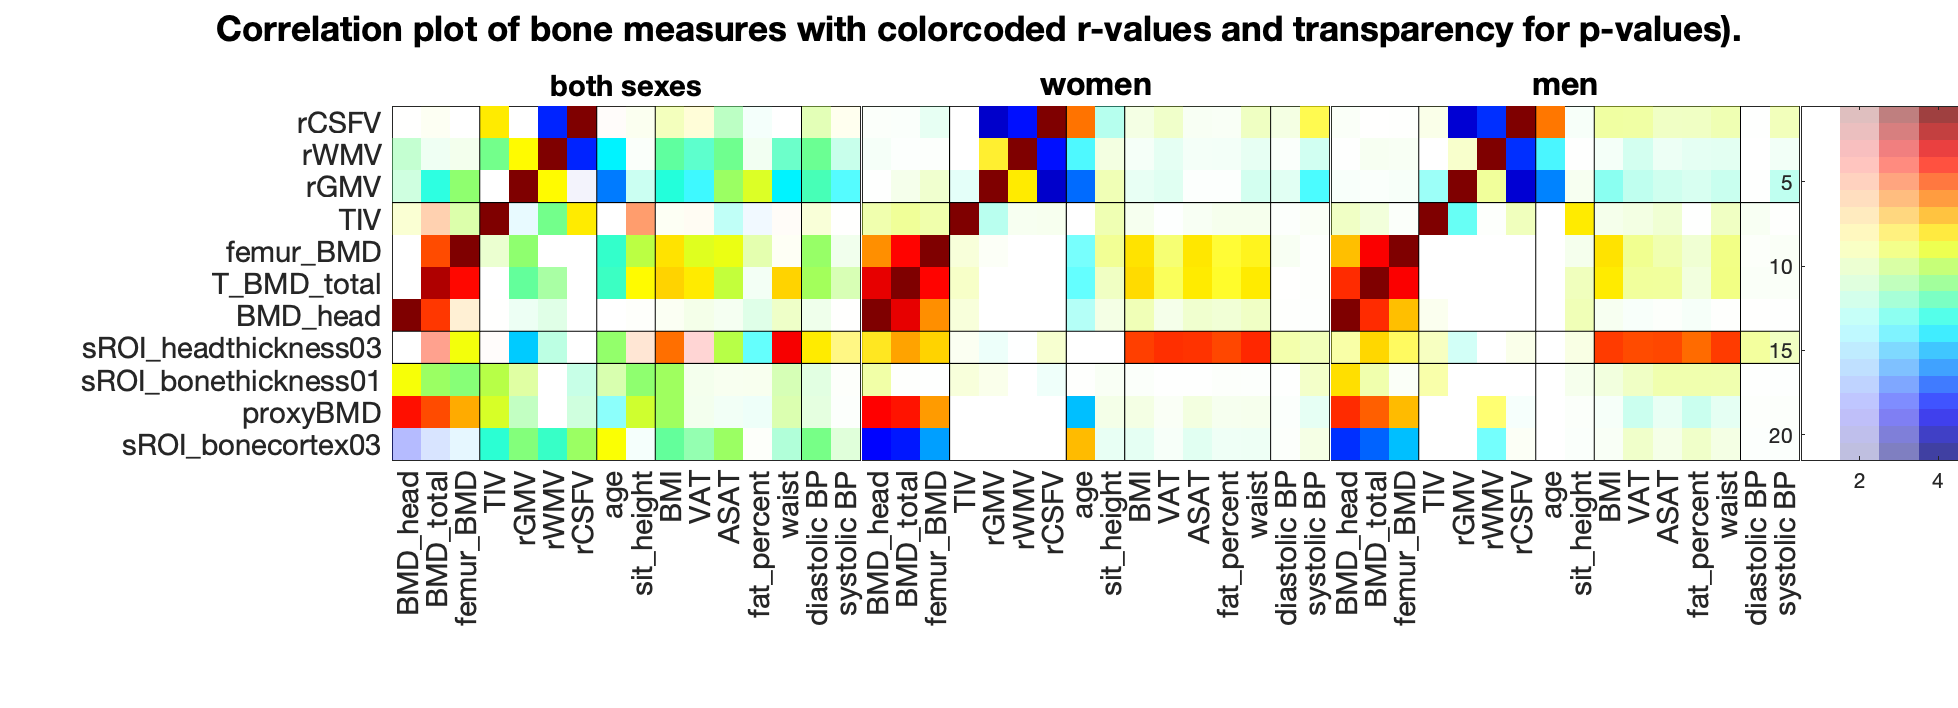
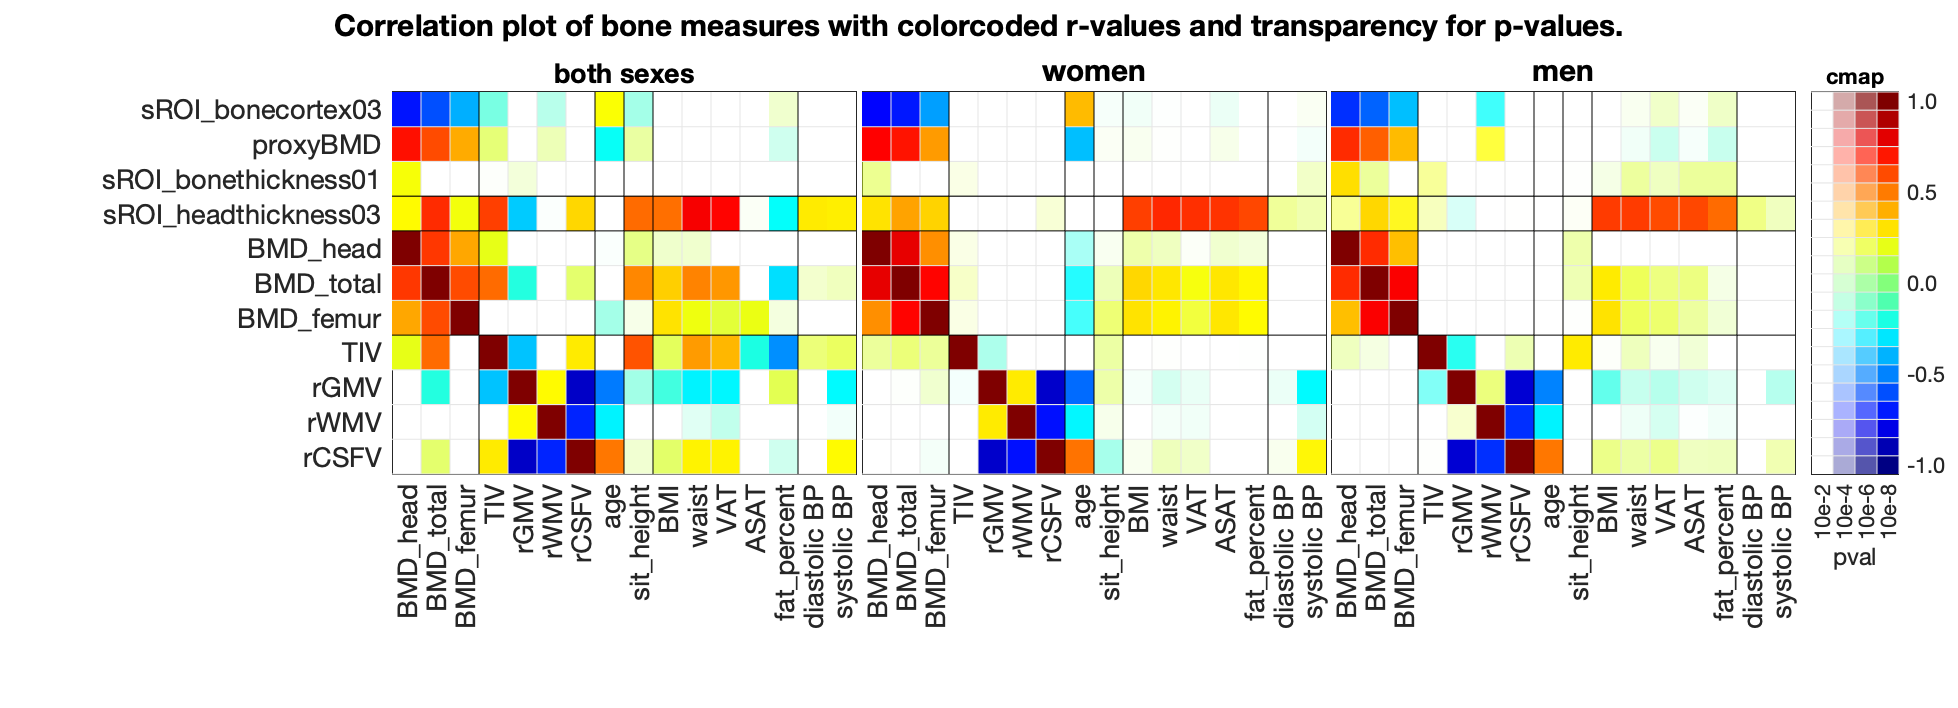
Final Figures

diff --git a/evaluation/HBM_boney_table.m b/evaluation/HBM_boney_table.m
@@ -8,7 +8,7 @@
 % _________________________________________________________________________
 
 
-fontsize     = 14;
+fontsize     = 13;
 boneyEvalDir = fileparts(which('HBM_boney_table.m'));
 
 % load data
@@ -16,23 +16,31 @@ men_corr   = cat_io_csv(fullfile(boneyEvalDir,'HBM_2024','men_corr_Boney.csv'));
 men_pval   = cat_io_csv(fullfile(boneyEvalDir,'HBM_2024','men_pval_Boney.csv'));
 women_corr = cat_io_csv(fullfile(boneyEvalDir,'HBM_2024','women_corr_Boney.csv'));
 women_pval = cat_io_csv(fullfile(boneyEvalDir,'HBM_2024','women_pval_Boney.csv'));
-both_corr  = cat_io_csv(fullfile(boneyEvalDir,'HBM_2024','boney_correlation_proper.csv')); both_corr(2,:) = []; both_corr(:,2) = [];
+both_corr  = cat_io_csv(fullfile(boneyEvalDir,'HBM_2024','boney_correlation_proper.csv')); 
+both_corrv = cell2mat( both_corr(2:end,2:end) ); 
+both_corrv = both_corrv .* triu(ones(size(both_corrv)),1)  +  both_corrv' .* tril(ones(size(both_corrv)));
+both_corr(2:end,2:end) = num2cell( both_corrv ); 
+both_corr(2,:) = []; both_corr(:,2) = [];
 both_pval  = cat_io_csv(fullfile(boneyEvalDir,'HBM_2024','boney_cor_pval.csv'));
-%both_corr  = men_corr; both_corr(2:end,2:end)  = num2cell(mean(cell2mat(cat(3,men_corr(2:end,2:end),women_corr(2:end,2:end))),3));
-%both_pval  = men_pval; both_pval(2:end,2:end)  = num2cell(mean(cell2mat(cat(3,men_pval(2:end,2:end),women_pval(2:end,2:end))),3));
-
+both_pval(2,:) = []; both_pval(:,2) = [];
+both_pvalv = cell2mat( both_pval(2:end,2:end) ); 
+both_pvalv = both_pvalv .* triu(ones(size(both_pvalv)),1)  +  both_pvalv' .* tril(ones(size(both_pvalv)));
+both_pval(2:end,2:end) = num2cell( both_pvalv ); 
+% replace some strings
+both_corr{contains(both_corr(:,1),'femur_BMD'),1} = 'BMD_femur';
+both_corr{1,contains(both_corr(1,:),'femur_BMD')} = 'BMD_femur';
 
 % we want to create multipe talbes with specific focus, i.e. to evaluate 
 % the bone and then fat measures separatly 
 use_vals   = { 
-  [ 9 10 12  ,  2:5 , 1 13         ]  [ 6 7 8   , 9 11 12  ,  2:5 ] 'bone' [3 7 12]  [3 7];   % bone [BMD, brain, age]
-  [ 2:5 , 1 15:21                  ]  [ 14      ,                2:5 ] 'fat'  [3     ]  [3  ];    % fat  [
-  [ 9 10 12  ,  2:5 , 1 13 , 15:21 ]  [ 6 7 8 14, 9 11 12  ,  2:5 ] 'bone' [3 7 9 14]  [3 4 8];   % bone [BMD, brain, age]
+  [ 9 10 12  ,  2:5 , 1 13 , 15 19 16:18      ]  [ 6 7 8  , 9 10 12  ,  2:5 ] 'bone' [3 7 8 9]  [3 7];   % bone [BMD, brain, age]
+  [ 2:5 , 1 15:21                  ]  [ 14      ,            2:5 ] 'fat'  [3     ]  [3  ];    % fat  [
+  [ 9 10 12  ,  2:5 , 1 13 , 15 19 16:18 20:21 ]  [ 6 7 8 14, 9 10 12 ,  2:5 ] 'bone' [3 7 8 9 14]  [3 4 7];   % bone [BMD, brain, age]
 };
 
 
-%%
-for uvi = 3 %1:size(use_vals,1)
+%
+for uvi = 1:size(use_vals,1)
   %% prepare smaller tables
   men_corr2   = men_corr(   [1 1+use_vals{uvi,1}] , [1 1+use_vals{uvi,2}])'; 
   men_pval2   = men_pval(   [1 1+use_vals{uvi,1}] , [1 1+use_vals{uvi,2}])'; 
@@ -48,17 +56,19 @@ for uvi = 3 %1:size(use_vals,1)
   % title 
   ha = annotation('textbox',[0.005 0.92 0.99 0.08],'string',...
     sprintf(['Correlation plot of %s measures with colorcoded r-values ' ...
-    'and transparency for p-values).'], use_vals{uvi,3}));
-  ha.FontSize             = fontsize * 1.2;
+    'and transparency for p-values.'], use_vals{uvi,3}));
+  ha.FontSize             = fontsize * 1.1;
   ha.FontWeight           = 'bold';
   ha.HorizontalAlignment  = 'center';
   ha.EdgeColor            = 'none'; 
   
 
   % plot for both sexes - print a matix a a specific position 
-  subplot('Position', [0.20 0.35 0.239 .5]); hold on
+  sb1 = subplot('Position', [0.20  0.45 - 0.01*size( men_corr2 ,1 )  0.237   .3 + 0.02*size( men_corr2 ,1 ) ]); hold on
   im                      = imagesc( cell2mat(both_corr2(2:end,2:end)) ); 
-  im.AlphaData            = min(1,max(0,.1 * log10(1 ./ cell2mat(both_pval2(2:end,2:end) )))); 
+  im.AlphaData            = min(1,max(0,1/6 * log10(10e-2 ./ cell2mat(both_pval2(2:end,2:end) )))); 
+  for uvix = 1:size(men_corr2,1),  plot([uvix uvix]+.5,[1 22]-.5,'Color',[0.9 0.9 0.9]); end
+  for uvix = 1:size(men_corr2,2), plot([1 22]-.5,[uvix uvix]+.5,'Color',[0.9 0.9 0.9]); end
   for uvix = use_vals{uvi,4}, plot([uvix uvix]+.5,[1 size(both_corr2,1)]-.5,'Color',[0 0 0]); end
   for uvix = use_vals{uvi,5}, plot([1 size(both_corr2,2)]-.5,[uvix uvix]+.5,'Color',[0 0 0]); end
   xlim([0.5 size(both_corr2,2)-.5]); ylim([0.5 size(both_corr2,1)-.5]); clim([-1 1]);
@@ -71,13 +81,16 @@ for uvi = 3 %1:size(use_vals,1)
   ax.YTick                = 1:numel( both_corr2(2:end,1) ); 
   ax.YTickLabel           = cat_io_strrep( both_corr2(2:end,1) ,'_','\_');
   ax.FontSize             = fontsize; 
+  ax.YDir                 = 'reverse';
   title('both sexes','FontSize',fontsize); box on
   
 
   % women
-  subplot('Position', [0.44 0.35 0.239 .5]); hold on
+  sb2 = subplot('Position', sb1.Position + [0.24 0 0 0]); hold on
   im                      = imagesc( cell2mat(women_corr2(2:end,2:end)) ); 
-  im.AlphaData            = min(1,max(0,.1 * log10(1 ./ cell2mat(women_pval2(2:end,2:end))) )); 
+  im.AlphaData            = min(1,max(0,1/6 * log10(10e-2 ./ cell2mat(women_pval2(2:end,2:end))) )); 
+  for uvix = 1:size(men_corr2,1),  plot([uvix uvix]+.5,[1 22]-.5,'Color',[0.9 0.9 0.9]); end
+  for uvix = 1:size(men_corr2,2), plot([1 22]-.5,[uvix uvix]+.5,'Color',[0.9 0.9 0.9]); end
   for uvix = use_vals{uvi,4}, plot([uvix uvix]+.5,[1 size(both_corr2,1)]-.5,'Color',[0 0 0]); end
   for uvix = use_vals{uvi,5}, plot([1 size(both_corr2,2)]-.5,[uvix uvix]+.5,'Color',[0 0 0]); end
   xlim([0.5 size(both_corr2,2)-.5]); ylim([0.5 size(both_corr2,1)-.5]); clim([-1 1]);
@@ -87,13 +100,16 @@ for uvi = 3 %1:size(use_vals,1)
   ax.XTickLabelRotation   = 90;
   ax.YTick                = []; 
   ax.FontSize             = fontsize; 
+  ax.YDir                 = 'reverse';
   title('women'); box on
   
 
   % men 
-  subplot('Position', [0.68 0.35 0.239 .5]); hold on
+  sb3 = subplot('Position', sb2.Position + [0.24 0 0 0]); hold on
   im                      = imagesc( cell2mat(men_corr2(2:end,2:end)) ); 
-  im.AlphaData            = min(1,max(0,.1 * log10(1./ cell2mat(men_pval2(2:end,2:end))) )); 
+  im.AlphaData            = min(1,max(0,1/6 * log10(10e-2 ./ cell2mat(men_pval2(2:end,2:end))) )); 
+  for uvix = 1:size(men_corr2,1),  plot([uvix uvix]+.5,[1 22]-.5,'Color',[0.9 0.9 0.9]); end
+  for uvix = 1:size(men_corr2,2), plot([1 22]-.5,[uvix uvix]+.5,'Color',[0.9 0.9 0.9]); end
   for uvix = use_vals{uvi,4}, plot([uvix uvix]+.5,[1 size(both_corr2,1)]-.5,'Color',[0 0 0]); end
   for uvix = use_vals{uvi,5}, plot([1 size(both_corr2,2)]-.5,[uvix uvix]+.5,'Color',[0 0 0]); end
   xlim([0.5 size(both_corr2,2)-.5]); ylim([0.5 size(both_corr2,1)-.5]); clim([-1 1]);
@@ -104,87 +120,35 @@ for uvi = 3 %1:size(use_vals,1)
   ax.XTickLabelRotation   = 90;
   ax.YTick                = []; 
   ax.FontSize             = fontsize; 
+  ax.YDir                 = 'reverse';
   %ax.LineWidth            = 2; 
   title('men'); box on
 
 
-  colormap(jet); 
-  subplot('Position',[0.92,0.35,0.1,0.5]); 
-  im            = imagesc( repmat( flip( (-1:.1:1)' ), 1 , 5) );
-  im.AlphaData  = repmat( 0:.25:1 , 21 , 1);   
-  ax            = gca; 
+  colormap(jet);
 
-
-%  cb = colorbar; cb.FontSize = fontsize * .9;
-  %cb.Ticks = [-1:0.2:1];
+  subplot('Position',[0.925 sb3.Position(2) 0.045 sb3.Position(4)]); hold on
+  im                      = imagesc( repmat( flip( (-1:.1:1)' ,2 ), 1 , 4) );
+  im.AlphaData            = repmat( min(1,max(0,1/6 * log10(10e-2 ./  [10e-2 10e-4 10e-6 10e-8]) )), 21 , 1);   
+  ax                      = gca; 
+  ax.TickLength           = [0 0];
+  ax.XTick                = 1:4; 
+  ax.XTickLabel           = {'10e-2','10e-4','10e-6','10e-8','10e-10'};
+  ax.XTickLabelRotation   = 90;
+  ax.YAxisLocation        = 'right';
+  ax.YTick                = 1:5:21; 
+  ax.YTickLabel           = {'-1.0','-0.5','0.0','0.5','1.0'};
+  ax.FontSize             = fontsize*.8;
+  for uvix = 1:4,  plot([uvix uvix]+.5,[1 22]-.5,'Color',[0.9 0.9 0.9]); end
+  for uvix = 1:21, plot([1 22]-.5,[uvix uvix]+.5,'Color',[0.9 0.9 0.9]); end
+  %for uvix = [1 5 6 10 11 15 16 20 21], plot([1 size(both_corr2,2)]-.5,[uvix uvix]+.5,'Color',[.2 .2 .2]); end
+  ylim([.5 21.5]); xlim([.5 4.5]); box on
+  xlabel('pval'); ylabel('r-val')
+  title('cmap','FontSize',fontsize*0.8);
   
-%  subplot('Position',[0.96,0.35,0.1,0.5]); 
-%  im = imagesc( ones(1,11) ); im.AlphaData = 0:0.1:1; clim([0 1]);
-  %cb = colorbar; cb.FontSize = fontsize * .9; 
-  %cb.Ticks = 0:0.25:1; %cb.Label = {0:0.25:1};
-%  axis equal off
-  %cb = colorbar;
-  
-  %subplot('Position',[0.95,0.35,0.0001,0.5]); 
-  %subplot('Position',[0.98,0.35,0.0001,0.5]); imagesc( ones(1,21) ); axis equal off
-   
+  % save image
   saveas(gcf,fullfile(boneyEvalDir,'HBM_2024',sprintf('HBM_2024_table%02d.png', uvi ))); 
-  
 
 end
 
-
-
-%% old code 
-      
-      if gi==1
-        ax.YTick = 1:numel(measure); ax.YTickLabel = cat_io_strrep(measure,'_','\_'); ylabel('measures'); 
-      else
-        ax.YTick = []; ax.YTickLabel = {};
-      end
-      ax.XTickLabelRotation = 90;
-      switch gi
-        case 2,    col = [0 0 1]; 
-        case 3,    col = [1 0 0];
-        otherwise, col = [0 0 0];
-      end
-      ax.XColor = col; ax.YColor = col; ax.LineWidth = 2;  
-      title(group{gi},'Color',col);
-      xlabel('parameters');
-      hold on
-
-      % grid
-      nx = size(RHOm,1);
-      ny = size(RHOm,2);
-      edge_x = repmat((0:nx)+0.5, ny+1,1);
-      edge_y = repmat((0:ny)+0.5, nx+1,1).';
-      plot(edge_x , edge_y , 'Color', repmat(.9,3,1) ) % vertical lines
-      plot(edge_x', edge_y', 'Color', repmat(.9,3,1) ) % horizontal lines
-
-      % extra lines to group measures/paras
-      nxi = [3 6 7  8  13 15 ];
-      plot( repmat(nxi+0.5, 2,1) , repmat([0 ny+1]', 1,numel(nxi)) , 'Color', zeros(3,1) ) % vertical lines
-      %nxi = [3 4 10 12 ];
-      %plot( repmat(nxi+0.5, 2,1) , repmat([0 ny+1]', 1,numel(nxi)) , 'LineWidth', 2, 'Color', zeros(3,1) ) % vertical lines
-      switch matonly 
-        case {11,12}
-          % nyi = [4 7 13 19 25   10 16 22 28]; nyim = [7 13 19 25]; % full
-        case {2,3}
-          nyi = [3 4 9 12]; nyim = [];
-        otherwise
-          nyi = []; nyim = [];
-      end
-      if ~isempty(nyi)
-        plot( repmat([0 nx+1]', 1,numel(nyi)), repmat(nyi+0.5, 2,1)  , 'Color', zeros(3,1) ) % vertical lines
-      end
-      if ~isempty(nyim)
-        plot( repmat([0 nx+1]', 1,numel(nyim)), repmat(nyim+0.5, 2,1)  , 'Color', col, 'LineWidth', 1.5) % vertical lines
-      end
-    
-
-    colormap(jet); caxis([-1 1]); %cat_io_colormaps('BWR',64)); %graybluered
-    subplot('Position',[0.95,0.27,0.0001,0.6]); imagesc( (-1:.1:1)' ); axis equal off
-    colorbar
-
-    
     
